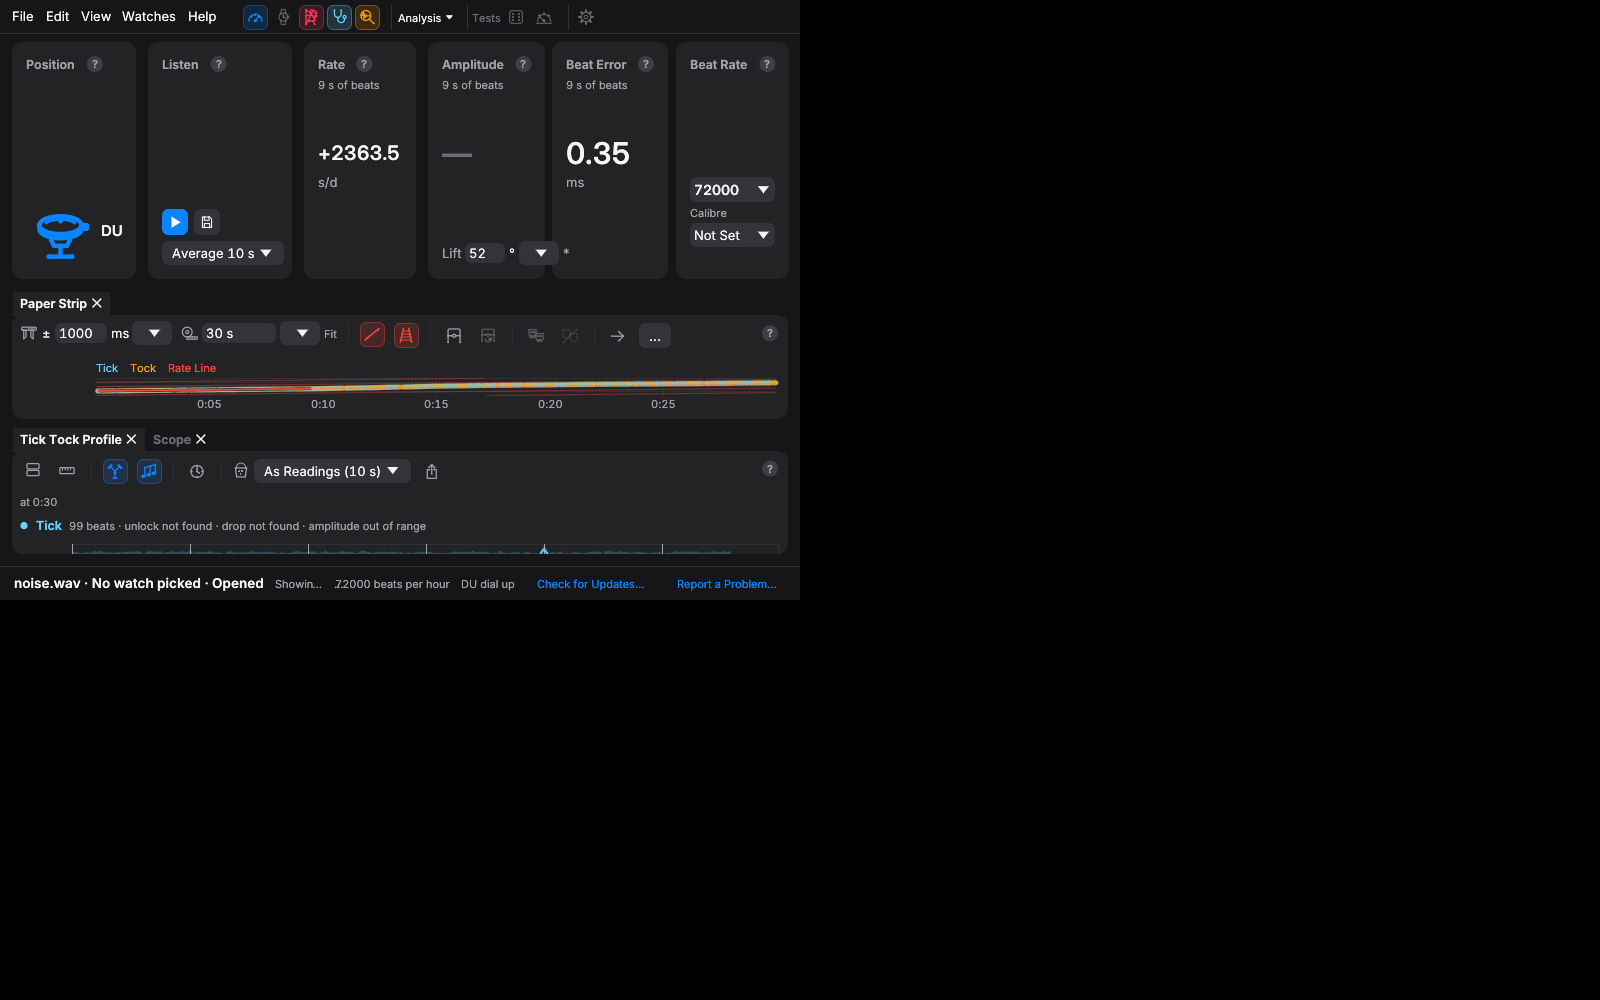
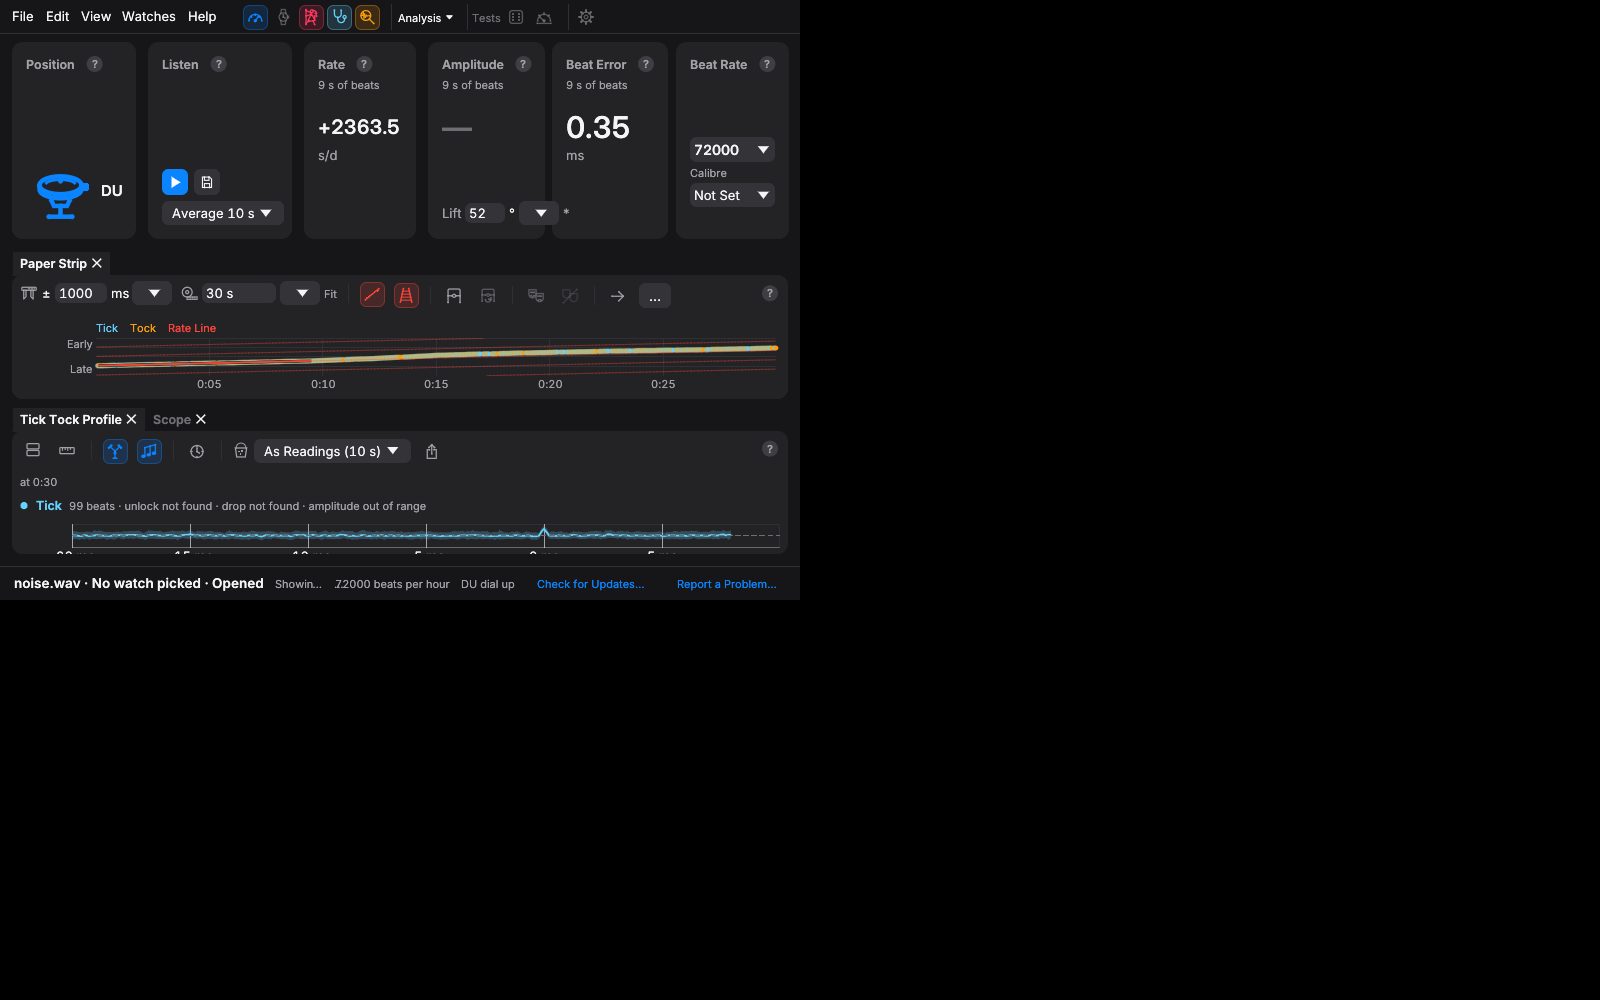
Reading cards: short wording for limits and status, panes keep 120 pt
What limits a reading, and the line under the figure, use short words
("25 of 66 beats", "3% clipped", "6.8 s masked", "sides named by
count", "settling, 20 s", "before the move", "No regular beat"),
the full sentence in the hover, and the cards keep room for the short
wording only, so a narrow window keeps the cards low. No pane is
squeezed below 120 points, so the Paper Strip keeps room to read.

Claude-Session: https://claude.ai/code/session_01GsSg6RBnTb5YLpmgbJGamZ

diff --git a/crates/timegrapher-app/src/app.rs b/crates/timegrapher-app/src/app.rs
@@ -9380,7 +9380,7 @@ impl TimegrapherApp {
         let heard = r.as_ref().is_none_or(|r| r.watch_heard || r.bph.is_none());
         // On the cards the fact in short, whole; the sentence with the
         // timing scatter, as the command line gives it, in the hover.
-        let unheard_line = "No regular beat found".to_string();
+        let unheard_line = "No regular beat".to_string();
         let unheard_hover = format!(
             "{}.\n\n{}",
             r.as_ref().map(no_regular_beat).unwrap_or_default(),
@@ -9595,8 +9595,11 @@ impl TimegrapherApp {
                     let status: Option<(String, String)> = if r.is_none() {
                         if let Some(left) = self.settling_left() {
                             Some((
-                                format!("settling in the new position, {:.0} s", left.ceil()),
-                                SETTLE_HINT.to_string(),
+                                format!("settling, {:.0} s", left.ceil()),
+                                format!(
+                                    "Settling in the new position for {:.0} s more.\n\n{SETTLE_HINT}",
+                                    left.ceil()
+                                ),
                             ))
                         } else if heard {
                             Some(("waiting for beats".into(), String::new()))
@@ -9606,10 +9609,13 @@ impl TimegrapherApp {
                     } else {
                         self.stopped_in_settle().map(|at| {
                             (
-                                format!("before the move at {}", strip::fmt_time(at)),
-                                "Stopped while the watch settled in its new position, so these \
-                             are the last readings of the position before it."
-                                    .to_string(),
+                                "before the move".to_string(),
+                                format!(
+                                    "Stopped while the watch settled in its new position, so \
+                                     these are the last readings of the position before it, \
+                                     before the move at {}.",
+                                    strip::fmt_time(at)
+                                ),
                             )
                         })
                     };
@@ -13002,6 +13008,12 @@ impl egui_tiles::Behavior<Pane> for PaneBehavior<'_> {
         false
     }
 
+    /// No pane squeezed to a sliver on a short window: the Paper Strip,
+    /// the main view, keeps room to read under the cards.
+    fn min_size(&self) -> f32 {
+        PANE_MIN_H
+    }
+
     fn simplification_options(&self) -> SimplificationOptions {
         SimplificationOptions {
             all_panes_must_have_tabs: true,
@@ -13132,13 +13144,16 @@ fn whole_lines(ui: &mut egui::Ui, short: &str, long: &str, longest: &str, inner:
     }
 }
 
+/// The least a pane is squeezed to, points.
+const PANE_MIN_H: f32 = 120.0;
+
 /// The longest limits a reading card usually names, as on noise taken for
 /// beats: the card keeps room for them at every width.
-const LONGEST_LIMITS: &str = "9 s of beats · 25 of 66 expected beats found";
+const LONGEST_LIMITS: &str = "9 s of beats · 25 of 66 beats";
 
 /// The longest line a reading card gives under its figure that must show
 /// whole: the card keeps room for it at every width.
-const LONGEST_STATUS: &str = "settling in the new position, 20 s";
+const LONGEST_STATUS: &str = "waiting for beats";
 
 /// What the settling after a move is, wherever it is shown.
 const SETTLE_HINT: &str = "For the first 10 seconds after the watch is put in a new position \
@@ -13903,9 +13918,9 @@ fn reading_limits(
             (Caveat::BeatsMissing { fraction }, _) => {
                 let expected = (beats as f64 / fraction.max(1e-9)).round() as usize;
                 let short = if beats > 0 {
-                    format!("{beats} of {expected} expected beats found")
+                    format!("{beats} of {expected} beats")
                 } else {
-                    format!("{:.0}% of expected beats found", fraction * 100.0)
+                    format!("{:.0}% of beats found", fraction * 100.0)
                 };
                 Some((
                     short,
@@ -13916,7 +13931,7 @@ fn reading_limits(
                 ))
             }
             (Caveat::Clipped { fraction }, "Amplitude" | "Beat Error") => Some((
-                format!("{:.0}% of beats clipped", fraction * 100.0),
+                format!("{:.0}% clipped", fraction * 100.0),
                 format!(
                     "{:.0}% of the beats have a clipped sample, which moves the timing of \
                      the sounds inside a beat.",
@@ -13941,10 +13956,7 @@ fn reading_limits(
                 format!("The beat rate set differs from the {heard} bph heard."),
             )),
             (Caveat::SidesByCount { count }, "Beat Error") => Some((
-                format!(
-                    "Tick and Tock named by the beat count across {count} break{}",
-                    if *count == 1 { "" } else { "s" }
-                ),
+                "sides named by count".to_string(),
                 format!(
                     "Tick and Tock are named by the beat count across {count} break{} in \
                      this stretch, not told apart by their sound.",
@@ -13970,7 +13982,7 @@ fn reading_limits(
                     format!("{seconds:.0}")
                 };
                 Some((
-                    format!("{s} s masked out"),
+                    format!("{s} s masked"),
                     format!(
                         "{s} s of this stretch were masked out on the Paper Strip and left out \
                          of the readings."
@@ -14018,7 +14030,7 @@ mod tests {
         let short: Vec<&str> = rate.iter().map(|f| f.0.as_str()).collect();
         assert_eq!(short, ["4 s of beats", "input clock not measured"]);
         let missing = reading_limits("Rate", &[Caveat::BeatsMissing { fraction: 0.9 }], 52.0, 90);
-        assert_eq!(missing[0].0, "90 of 100 expected beats found");
+        assert_eq!(missing[0].0, "90 of 100 beats");
         for (_, long) in amp.iter().chain(&rate) {
             for word in [
                 "Confidence",
@@ -14038,10 +14050,7 @@ mod tests {
         let caveats = [Caveat::SidesByCount { count: 2 }];
         let be = reading_limits("Beat Error", &caveats, 52.0, 30);
         assert_eq!(be.len(), 1);
-        assert_eq!(
-            be[0].0,
-            "Tick and Tock named by the beat count across 2 breaks"
-        );
+        assert_eq!(be[0].0, "sides named by count");
         assert!(be[0].1.contains("not told apart by their sound"));
         // It doesn't touch the rate or the amplitude.
         assert!(reading_limits("Rate", &caveats, 52.0, 30).is_empty());
@@ -18741,7 +18750,7 @@ mod tests {
     #[test]
     fn a_cards_limits_show_whole_in_room_kept_for_them() {
         let ctx = themed();
-        let noise = "9 s of beats · 25 of 66 expected beats found";
+        let noise = "9 s of beats · 25 of 66 beats";
         for w in [92.0, 190.0] {
             let mut heights = Vec::new();
             for short in ["", "12 s of beats", noise] {

diff --git a/docs/app.md b/docs/app.md
@@ -341,15 +341,16 @@ break or a move, up to five minutes), scaled to the averaging time; it
 needs about 30 s of unbroken beats. What the ± can't show is named, as a
 plain fact, whole, under the reading's caption, with a sentence on
 hover: "12 s of beats" when the beats span under 10 s, "540 of 600
-expected beats found" when under 95% were found, "3% of beats clipped"
-when over 1% clip (amplitude and beat error), a beat rate set that differs from the one heard, and breaks
+beats" when under 95% of the beats expected were found, "3% clipped"
+when over 1% of beats clip (amplitude and beat error), a beat rate set that differs from the one heard, and breaks
 in listening in the stretch (such as the computer sleeping). When no calibre or lift angle is set, "the default"
 beside Lift on the Amplitude card says the amplitude comes from the
 default 52° (shortened to "default" on a narrow card, or "*" with the
 same hover where even that won't fit). The cards give their units short:
 s/d and ms. On the beat error, a reading of an opened file whose Tick
-and Tock were named by the beat count across a break says so ("Tick and
-Tock named by the beat count across 1 break"). Once stopped, each figure's hover also gives the whole take in the
+and Tock were named by the beat count across a break says so ("sides
+named by count", with the number of breaks in the hover). A masked
+stretch in the averaging time reads "6.8 s masked". Once stopped, each figure's hover also gives the whole take in the
 position the watch is in, settling left out, as `timegrapher session`
 reads it (core `session::measure_masked`, the time in other positions
 masked): the rate fitted over every beat, the amplitude and beat error
@@ -1299,15 +1300,18 @@ from before the move and says so.
 place whether it shows anything or not: the caption, what limits the
 reading, the figure and its unit (under it on a card too narrow for the
 widest figure), and the lines under the figure. What limits the reading
-and the line under the figure always show whole, wrapped: each has room
-for its longest usual wording at the card's width, so a narrow window
-gives taller cards. With no regular beat, the cards say "No regular beat
-found" and give the full sentence, with the timing scatter, in its
-hover. A figure too wide for its card is drawn smaller. The
-Rate card's last line (True Clock, or the input clock timed to keep) is
-cut short where it doesn't fit, its whole in the hover; True Clock is in
-the Rate figure's hover too. So the cards, and every pane under them,
-change height only with the window's width, never with the readings.
+and the line under the figure always show whole, wrapped, in short
+words ("9 s of beats · 25 of 66 beats"; "settling, 20 s"; "before the
+move"; "waiting for beats"), with the full sentence in the hover; each
+has room for its longest usual wording at the card's width. With no
+regular beat, the cards say "No regular beat", with the full sentence
+and the timing scatter in the hover. A figure too wide for its card is
+drawn smaller. The Rate card's last line (True Clock, or the input clock
+timed to keep) is cut short where it doesn't fit, its whole in the
+hover; True Clock is in the Rate figure's hover too. So the cards, and
+every pane under them, change height only with the window's width, never
+with the readings. No pane is squeezed below 120 points, so the Paper
+Strip keeps room to read on a short window.
 
 Each saved recording is a folder named after the start time, then the
 watch's name and the calibre when they are set by the first save
